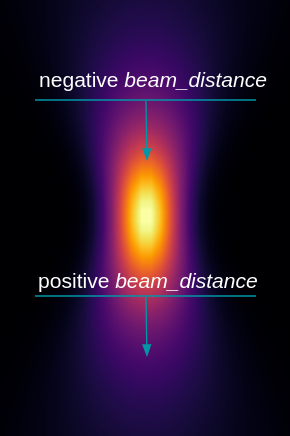
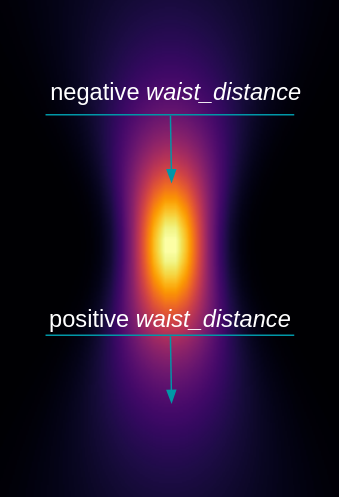
docs: fix the image reference to the correct `waist_distance` variable

Changed region(s): [[0.1241, 0.1491, 0.931, 0.3578], [0.1241, 0.6261, 0.9, 0.8349]]

diff --git a/tidy3d/components/source/field.py b/tidy3d/components/source/field.py
@@ -557,7 +557,7 @@ class GaussianBeam(AngledFieldSource, PlanarSource, BroadbandSource):
 
     Notes
     --------
-    If one wants the focus 'in front' of the source, a negative value of ``beam_distance`` is needed.
+    If one wants the focus 'in front' of the source, a negative value of ``waist_distance`` is needed.
 
     .. image:: ../../_static/img/beam_waist.png
         :width: 30%
